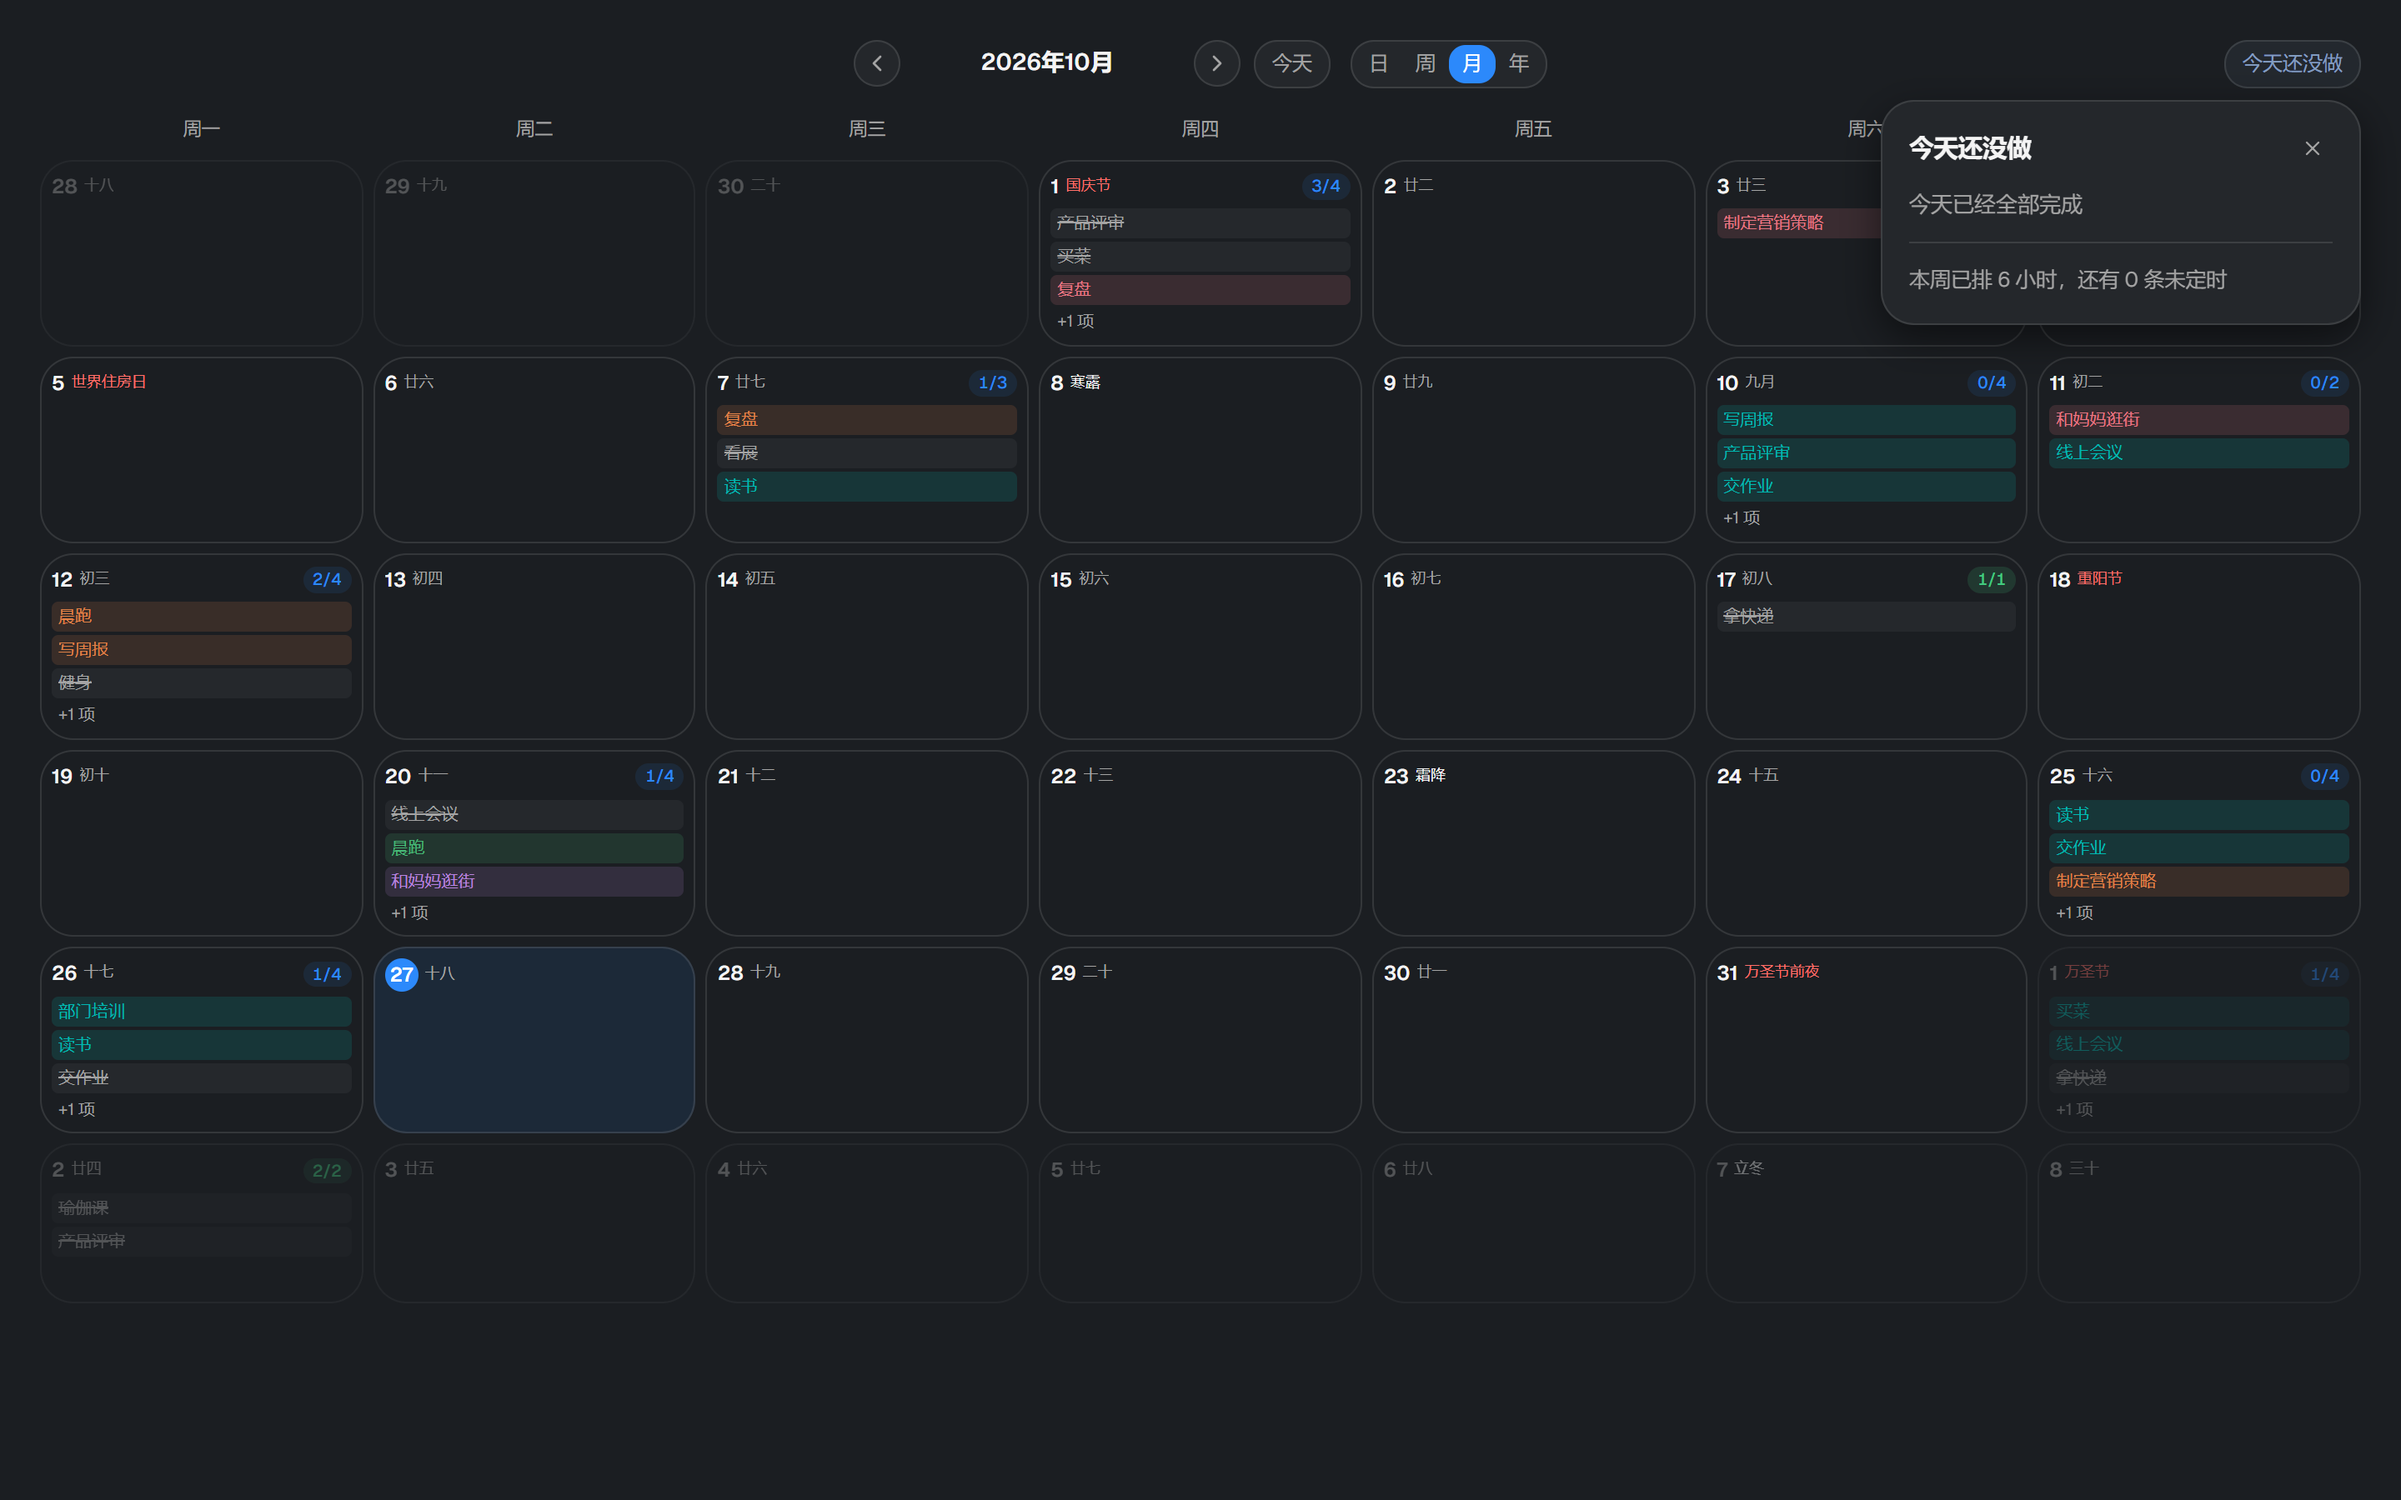
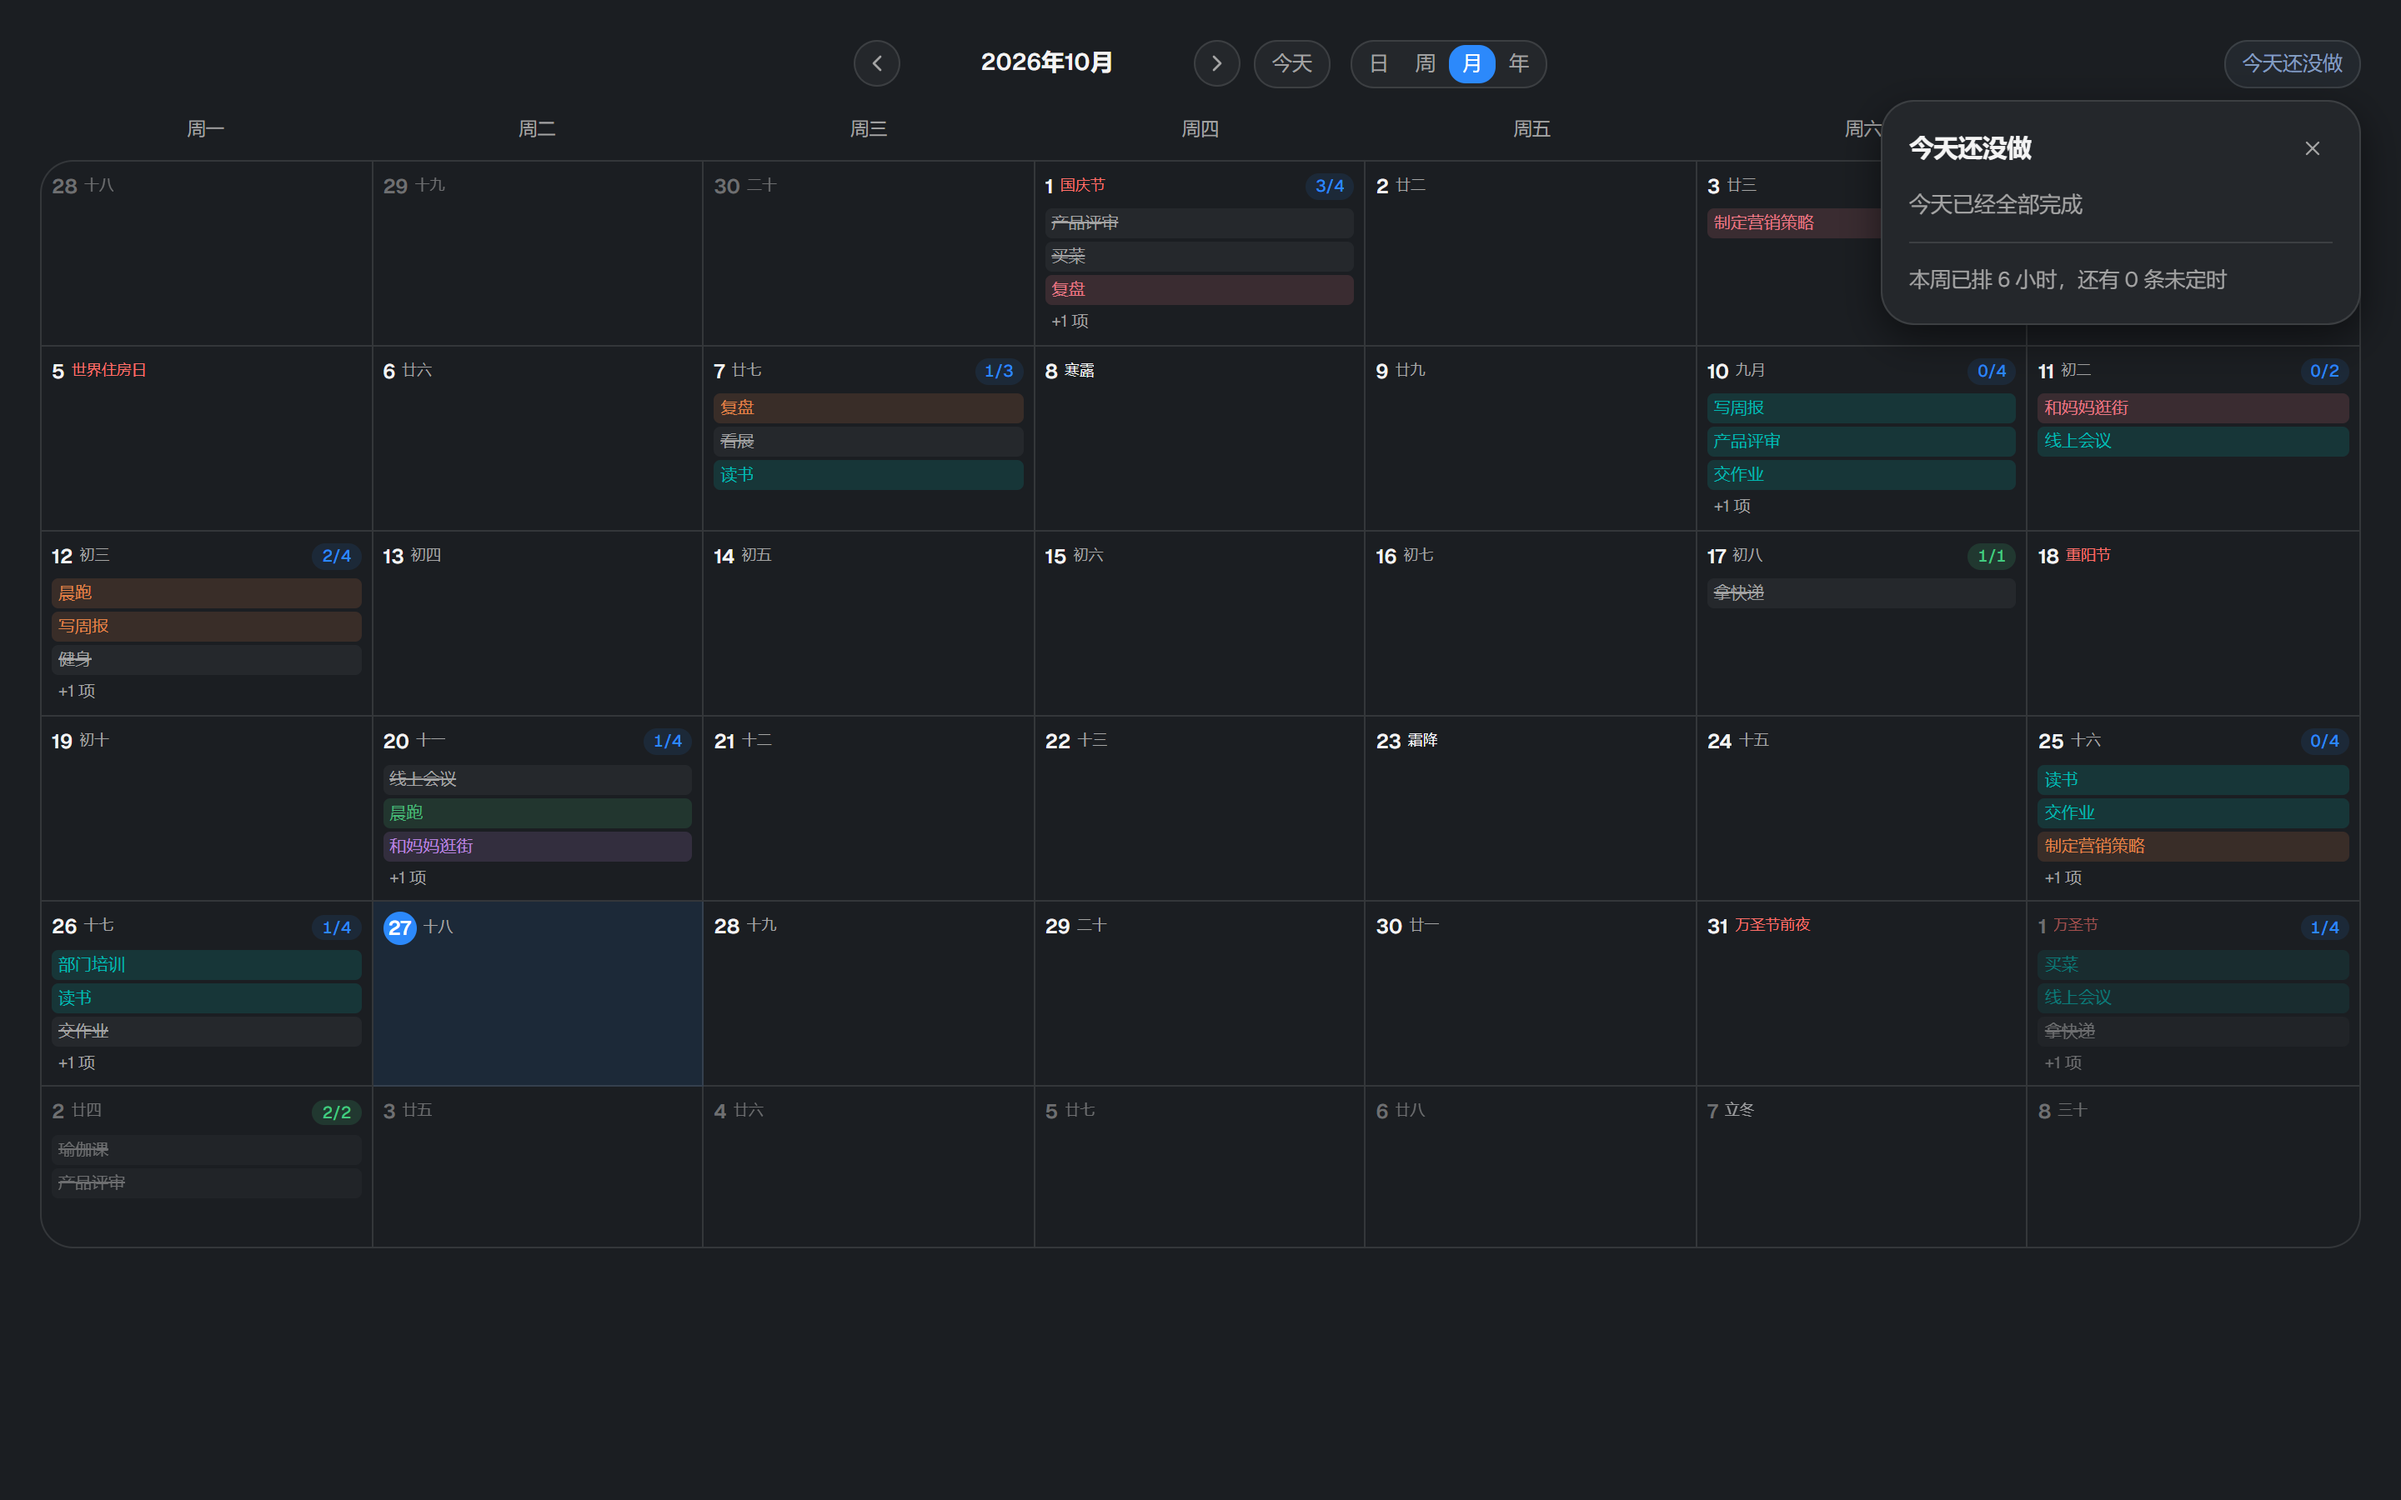
style(计划)：月视图 42 张描边卡片 → 一张细线日历
每格自带一圈 rounded-xl 描边时，42 圈线叠起来比格子里那几条任务名还抢眼，一整月看着像表格而不是日历。改成：外框一圈圆角，格子之间只留 1px 细线。

线只画内部：每格右下两条，7n 去掉右线、末 7 格去掉下线，免得和外框叠成双线。选中不再叠第二层描边，只换底色（bg-brand/10）；hover 仍是 bg-surface-hover。

非本月日期改成淡文字（日号 text-muted-foreground/60，农历与任务名 60% 透明），不再对整格用 opacity-40 —— 整格透明会把这一格的细线一起淡掉，线就不齐了。行高、每格任务条数、任务色、农历一律不动。

验证：node scripts/shot-plan-calendar.mjs 全部通过（42 格 / 31 条任务名 / 0 运行时报错），plan-month.png 与 plan-year.png 已重新生成；npm run verify 退出 0。

diff --git a/src/features/plans/views/calendar.tsx b/src/features/plans/views/calendar.tsx
@@ -175,7 +175,7 @@ function MonthGrid({ date, onPick }: { date: string; onPick: (date: string) => v
   return (
     <div>
       {/* 星期表头 */}
-      <div className="mb-1.5 grid grid-cols-7 gap-1.5">
+      <div className="mb-1.5 grid grid-cols-7">
         {weekdayLabels.map((w) => (
           <div key={w} className="py-1 text-center text-[11px] font-medium text-muted-foreground">
             {w}
@@ -183,8 +183,10 @@ function MonthGrid({ date, onPick }: { date: string; onPick: (date: string) => v
         ))}
       </div>
 
-      {/* 日期网格 */}
-      <div className="grid grid-cols-7 gap-1.5">
+      {/* 日期网格：整月是**一张日历**，不是 42 张卡片 —— 格子之间只留 1px 细线，
+          外框一圈圆角。原来每格自带一圈描边，42 圈描边叠起来比里面的内容还抢眼。
+          今天仍然是实心圆点，选中只换底色（不再叠第二层描边）。 */}
+      <div className="grid grid-cols-7 overflow-hidden rounded-xl border border-border">
         {grid.map(({ date: cell, inMonth }) => {
           const active = days[cell];
           const archived = archiveDays[cell];
@@ -203,11 +205,10 @@ function MonthGrid({ date, onPick }: { date: string; onPick: (date: string) => v
               data-day={cell}
               onClick={() => onPick(cell)}
               className={cn(
-                "flex min-h-24 flex-col items-stretch gap-1 rounded-xl border p-1.5 text-left transition-colors duration-150",
-                inMonth ? "border-border" : "border-transparent opacity-40",
-                isSelected
-                  ? "border-brand bg-brand/10"
-                  : "hover:border-muted-foreground/40 hover:bg-surface-hover",
+                "flex min-h-24 flex-col items-stretch gap-1 border-border p-1.5 text-left transition-colors duration-150",
+                // 只画内部线：每格右下两条，行末去掉右线、末行去掉下线，免得和外框叠成双线
+                "border-b border-r [&:nth-child(7n)]:border-r-0 [&:nth-last-child(-n+7)]:border-b-0",
+                isSelected ? "bg-brand/10" : "hover:bg-surface-hover",
               )}
             >
               {/* 日期 + 农历 + 进度 */}
@@ -217,12 +218,13 @@ function MonthGrid({ date, onPick }: { date: string; onPick: (date: string) => v
                     className={cn(
                       "text-[12px] font-semibold",
                       isToday && "grid size-5 place-items-center rounded-full bg-brand text-white",
-                      !isToday && !inMonth && "text-muted-foreground",
+                      // 非本月只淡文字，不再整格 opacity —— 否则把这一格的细线也一起淡掉，线就不齐了
+                      !isToday && !inMonth && "text-muted-foreground/60",
                     )}
                   >
                     {parseDate(cell).getDate()}
                   </span>
-                  <LunarText date={cell} className="text-[9px]" />
+                  <LunarText date={cell} className={cn("text-[9px]", !inMonth && "opacity-60")} />
                 </span>
                 {progress && progress.total > 0 && (
                   <span
@@ -241,7 +243,7 @@ function MonthGrid({ date, onPick }: { date: string; onPick: (date: string) => v
               </div>
 
               {/* 任务名：单行截断，不换行（格子高度固定，换行会撑破网格） */}
-              <div className="flex min-w-0 flex-col gap-0.5">
+              <div className={cn("flex min-w-0 flex-col gap-0.5", !inMonth && "opacity-60")}>
                 {shown.map((task) => {
                   const status = statusOf(task, cell, now);
                   return (
